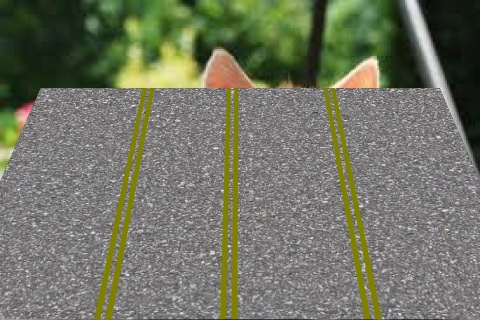
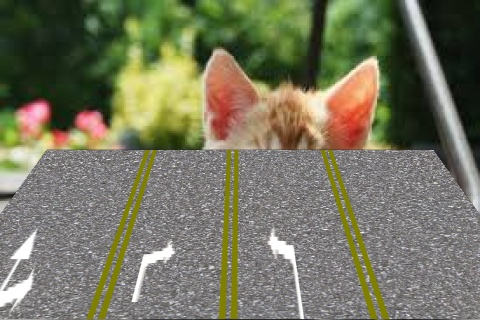
Template insertion problems solved

diff --git a/src/mark_tracker.py b/src/mark_tracker.py
@@ -1,90 +1,102 @@
 import math
+import numpy as np
 
 class MarkTracker:
-    filename = ""
-    locations = []
+    __filename = ""
+    __location = (0, 0, 0, 0)
+    __label    = ""
 
     def __init__(self, filename):
-        self.filename = filename
+        self.__filename = filename
+
     def addLocation(self, location, m_class):
-        track = (location, m_class)
-        self.locations.append(track)
-    def getLocationString(self, index):
-        location = self.locations[index]
-        location, _ = location
+        self.__location = location
+        # Location format:
+        # (x0, y0, x1, y1)
+        self.__label = m_class
 
-        # Getting Xs and Ys:
-        pos0, pos1 = location
-        x0, y0 = pos0
-        x1, y1 = pos1
+    def getString(self):
 
-        string = str(x0) + "," + str(y0) + "," + str(x1) + "," + str(y1)
-        return string
-    def getClass(self, index):
-        location   = self.locations[index]
-        _, m_class = location
+        # Getting Xs and Ys
+        x0, y0, x1, y1 = self.__location
 
-        return m_class
-    def getInformation(self, index):
-        return getLocationString(self, index) + "," + getClass(self, index)
-    def location_after_moving(location, x_movement, y_movement):
-        pos0, pos1 = location
-        x0, y0 = pos0
-        x1, y1 = pos1
+        # Formatting string
+        loc_str = str(x0) + "," + str(y0) + "," + str(x1) + "," + str(y1)
+        full_st = self.__filename + "," + loc_str + "," + self.__label
+        return full_st
 
-        return ((x0 + x_movement, y0 + y_movement), (x1 + x_movement, y1 + y_movement))
-    def location_after_perspective(location, rotation_radians):
-        # Getting Xs and Ys:
-        pos0, pos1 = location
-        x0, y0 = pos0
-        x1, y1 = pos1
+    def getLabel(self):
+        return self.__label
 
-        # Putting points in cartesian coordinates
-        ref_x = (x0 + x1) / 2
-        ref_y = (y0 + y1) / 2
-        x0, x1 = x0 - ref_x, x1 - ref_x
-        y0, y1 = y0 - ref_y, y1 - ref_y
+    def getLocation(self):
+        return self.__location
 
-        # Converting to 3D points
-        # pos0 = (x0, y0, 0)
-        # pos1 = (x1, y1, 0)
-        # The rotation must follow the rule:
-        # z ** 2 + y ** 2 = y0 ** 2
-        # Thus:
-        # z = y0*cos(radians)
-        # y = y0*sin(radians)
+    def move(self, dx, dy):
 
-        # Doing the rotation:
-        pos0 = (x0, y0*math.cos(rotation_radians), y0*math.sin(rotation_radians))
-        pos1 = (x1, y1*math.cos(rotation_radians), y1*math.sin(rotation_radians))
+        dx, dy = int(dx), int(dy)
 
-        # Converting to 2D:
-        x0, y0, _ = pos0
-        x1, y1, _ = pos1
-        x0, y0 = x0 * 2.4 + ref_x, y0 * 1.2 + ref_y # Returning to default coordinates
-        x1, y1 = x1 * 2.4 + ref_x, y1 * 1.2 + ref_y # Returning to default coordinates
-        pos0 = (int(x0), int(y0))
-        pos1 = (int(x1), int(y1))
+        # Getting Xs and Ys
+        x0, y0, x1, y1 = self.__location
 
-        new_location = (pos0, pos1)
+        # Inserting new values
+        self.__location = (x0 + dx, y0 + dy, x1 + dx, y1 + dy)
 
-        return new_location
-    def updateLocation(self, index, x_move, y_move, x_rotation):
-        location = self.locations[index]
-        pos, m_class = location
-        pos = MarkTracker.location_after_perspective(pos, x_rotation)
-        pos = MarkTracker.location_after_moving(pos, x_move, y_move)
-        location = (pos, m_class)
-        self.locations[index] = location
-    def update(self, x_move, y_move, x_rotation):
-        for i in range(len(self.locations)):
-            self.updateLocation(i, x_move, y_move, x_rotation)
-    def getLocation(self, index):
-        loc = self.locations[index]
-        pos, _ = loc
-        loc0, loc1 = pos
-        x0, y0 = loc0
-        x1, y1 = loc1
-        return ((int(x0), int(y0)), (int(x1), int(y1)))
-    def getFilename(self):
-        return self.filename
+    def applyPerspective(self, theta, phi, gamma, dx, dy, dz, image_dimensions):
+
+        h, w = image_dimensions
+
+        d = np.sqrt(h**2 + w**2)
+        focal = d / (2 * np.sin(gamma) if np.sin(gamma) != 0 else 1)
+        dz = focal
+        f = focal
+
+        # 2D to 3D
+        A1 = np.array([[1,    0, -w/2],
+                    [0,    1, -h/2],
+                    [0,    0,    1],
+                    [0,    0,    1]])
+
+        # Rotating X, Y and Z
+        RX = np.array([[1, 0, 0, 0],
+                    [0, np.cos(theta), -np.sin(theta), 0],
+                    [0, np.sin(theta), np.cos(theta), 0],
+                    [0, 0, 0, 1]])
+
+        RY = np.array([[np.cos(phi), 0, -np.sin(phi), 0],
+                    [0, 1, 0, 0],
+                    [np.sin(phi), 0, np.cos(phi), 0],
+                    [0, 0, 0, 1]])
+
+        RZ = np.array([[np.cos(gamma), -np.sin(gamma), 0, 0],
+                    [np.sin(gamma), np.cos(gamma), 0, 0],
+                    [0, 0, 1, 0],
+                    [0, 0, 0, 1]])
+
+        # Composing R matrix
+        R = np.dot(np.dot(RX, RY), RZ)
+        # Translation matrix
+        T = np.array([[1, 0, 0, dx],
+                    [0, 1, 0, dy],
+                    [0, 0, 1, dz],
+                    [0, 0, 0, 1]])
+        # Converting 3D to 2D again
+        A2 = np.array([[f, 0, w/2, 0],
+                    [0, f, h/2, 0],
+                    [0, 0, 1, 0]])
+
+        # Final transformation matrix
+        TM = np.dot(A2, np.dot(T, np.dot(R, A1)))
+
+        # Preparing to apply the transformation in the points:
+        x0, y0, x1, y1 = self.__location
+        p1 = np.array([x0, y0, f])
+        p2 = np.array([x1, y1, f])
+
+        # Applying the transformation:
+        p1 = np.dot(p1, TM)
+        p2 = np.dot(p2, TM)
+
+        x0, y0, _ = p1
+        x1, y1, _ = p2
+
+        self.__location = int(x0/w), int(y0/h), int(x1/w), int(y1/h)

diff --git a/src/main.py b/src/main.py
@@ -7,6 +7,7 @@ from mark_tracker import MarkTracker
 from road import Road
 from roadimage import RoadImage
 from roadgraphics import *
+import random
 
 def show_image(image):
     cv2.imshow('image', image)
@@ -15,6 +16,11 @@ def show_image(image):
 
 def save_image(image, title="", path="image.jpg"):
     cv2.imwrite(title+path, image)
+
+def save_csv(trackers, title, path):
+    with open(path+"/"+title, 'w') as f:
+        for t in trackers:
+            f.write(t.getString()+"\n")
 
 def load_templates(path, dimensions):
     files = os.listdir(path)
@@ -128,6 +134,8 @@ def main():
     ground_textures = load_backgrounds(GROUND_TEXTURES, (WIDTH, HEIGHT))
     # Loading the backgrounds:
     backgrounds = load_backgrounds(BACKGROUNDS, (WIDTH, HEIGHT))
+    # Creating marktrackers list:
+    trackers = []
 
     for i in range(NUMI):
         # Image generation loop
@@ -139,6 +147,9 @@ def main():
         DESTINY = generate_outpath(DES_FOLDER, FN_PATTERN, images_counter, F_EXTENSION, NUMI)
         img = RoadImage((WIDTH, HEIGHT), DESTINY, backgrounds, ground_textures, templates)
         img.setSeed(SEED)
+
+        # Creating the marktrackers sublist:
+        sub_trackers = []
 
         # Defining the lanes in the road
         img.defineLanes(MIN_LANES, MAX_LANES, LANE_VARIATION)
@@ -168,7 +179,20 @@ def main():
         lane_index = img.getRandomLane()
         x_offset, y_offset = img.getShift(MINCX, MAXCX, MINCY, MAXCY)
         overlay, template_locations = img.insertTemplatesAtLanes(overlay, x=x_offset, y=y_offset, min_w=TR_MINW, max_w=TR_MAXW, min_h=TR_MINH, max_h=TR_MAXH)
-        template_location, _ = ((0, 0),(1, 1)), "TEMPLATE" #template_locations[0] # TODO: Change this
+
+        # Creating marktrackers:
+        for i in template_locations:
+            p, label = i
+            p1, p2 = p
+            x0, y0 = p1
+            x1, y1 = p2
+
+            filename = "" + DESTINY
+            filename = filename[len(DES_FOLDER)+1:]
+
+            tracker = MarkTracker(filename)
+            tracker.addLocation((x0, y0, x1, y1), label)
+            sub_trackers.append(tracker)
 
         # Blending layers:
         output_img = blend(ground_texture, overlay)
@@ -179,16 +203,17 @@ def main():
         output_img, y_shift = bring_to_bottom(output_img)
         x_shift = 0
 
-        # Getting the template location
-        tracker = MarkTracker(DESTINY)
-        tracker.addLocation(template_location, template_class)
-        tracker.update(x_shift, y_shift, r_x)
+        # Updating marktrackers:
+        for t in sub_trackers:
+            t.move(x_shift, y_shift)
+            t.applyPerspective(r_x, r_y, r_z, 0, 0, 0, (HEIGHT, WIDTH)) # Must change later
 
         # Final blending:
         output_img = blend(bg_img, output_img)
 
-        # Drawing bounding box around the template:
-        # draw_bbox(output_img, tracker.getLocation(0), RED) # Must change later
+        # Drawing bounding boxes around the templates:
+        #for t in sub_trackers:
+            #draw_bbox(output_img, t.getLocation(), RED)
 
         # TODO: FIX THE TRACKER
 
@@ -198,7 +223,12 @@ def main():
 
         # Preparing for the next round:
         images_counter+=1
-        SEED+=1 # Must find a better solution later, but for now it works well
+        SEED+=random.randint(0, 255) # Must find a better solution later, but for now it works well
+
+        trackers += sub_trackers
+
+    # Saving trackers csv:
+    save_csv(trackers, "annotations.csv", DES_FOLDER)
 
     print("Dataset generated successfully.")
 

diff --git a/src/lane.py b/src/lane.py
@@ -24,9 +24,6 @@ class Lane:
         return xa, ya
     def insertTemplate(self, layer, template, x, y):
         # x and y are the coordinates related to the center of the template
-        
-        # Getting template dimensions:
-        t_w, t_h, _ = template.shape
 
         # Getting lane x and y:
         xc, yc = self.getAbsoluteCoordinates(x, y)
@@ -34,13 +31,8 @@ class Lane:
         # Finding the template insertion vertexes:
         x0, y0, x1, y1 = self.getTemplateCoords(template, dx=x, dy=y)
 
-        # Adding the shift:
-        y0 += y
-        y1 += y
-        x0 += x
-        x1 += x
-
-        # Correcting shift (if necessary):
+        # Correcting shift and template dimensions (if necessary):
+        template = self.correctDimensions(template, dx=x, dy=y)
         x0, y0, x1, y1 = self.correctShift(template, x, y)
 
         # Inserting the image:
@@ -110,11 +102,9 @@ class Lane:
 
         # Analyzing point by point:
         if x0 < self.x0 or x1 > (self.x0 + self.w):
-            print("a")
             return False
         
         if y0 < 0 or y1 > self.h:
-            print("b")
             return False
 
         return True
@@ -139,12 +129,6 @@ class Lane:
         x0, y0 = self.getAbsoluteCoordinates(rx0, ry0)
         x1, y1 = self.getAbsoluteCoordinates(rx1, ry1)
 
-        # If the difference persists...
-        if x1 - x0 != width:
-            x1 -= 1
-        if y1 - y0 != height:
-            y1 -= 1
-
         return x0, y0, x1, y1
 
     def correctShift(self, template, dx, dy):
@@ -168,3 +152,22 @@ class Lane:
             y1 = t_h
 
         return x0, y0, x1, y1
+
+    def correctDimensions(self, template, dx=0, dy=0):
+        
+        t_h, t_w, _ = template.shape
+
+        x0, y0, x1, y1 = self.getTemplateCoords(template, dx=dx, dy=dy)
+
+        # Correcting dimensions
+        if t_w > self.w:
+            x0 = self.x0
+            x1 = int((self.x0 + self.w) * 0.9)
+        if t_h > self.h:
+            y0 = 0
+            y1 = int(self.h * 0.9)
+
+        # Resizing template
+        template = cv2.resize(template, (x1-x0, y1-y0), interpolation=cv2.INTER_AREA)
+
+        return template

diff --git a/src/roadgraphics.py b/src/roadgraphics.py
@@ -46,17 +46,9 @@ def get_template_from_image(dimensions, image_path):
     th, tw, ta = unchanged_template.shape # Original template dimensions
     w, h = dimensions # Background dimensions
 
-    # Getting the image ratio
-    smaller = th
-    bigger  = tw
-    if tw < th:
-        smaller = tw
-        bigger  = th
-    ratio = smaller / bigger
-
     # Resized image dimensions
-    template_w = tw #math.floor(0.9 * w / divisions)
-    template_h = th #math.floor(template_w * ratio)
+    template_w = tw
+    template_h = th
 
     # Getting template
     template_dim = (template_h, template_w)
@@ -166,10 +158,7 @@ def bring_to_bottom(image):
 
 def draw_bbox(image, location, color):
     # Getting Xs and Ys:
-    pos0, pos1 = location
-    x0, y0 = pos0
-    x1, y1 = pos1
-
+    x0, y0, x1, y1 = location
     cv2.rectangle(image, (x0, y0), (x1, y1), color, 2)
 
 def resize_template(template, new_h, new_w):
